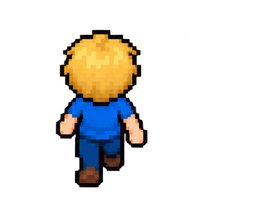
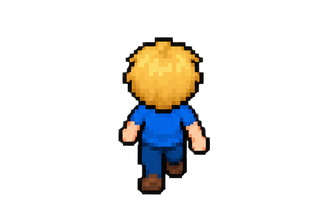
fix: Lauf-Frames am Alpha-Schwerpunkt ausrichten (Körper bleibt stehen, nur Beine laufen -> kein Wackeln bei hoch/runter)

Changed region(s): [[0.1805, 0.12, 0.6617, 0.99]]

diff --git a/tools/process_assets.py b/tools/process_assets.py
@@ -120,22 +120,33 @@ lukas = fit(cutout_white(Image.open(os.path.join(SRC, "lukas.png"))), 360)
 lukas.save(os.path.join(OUT, "pokemon", "11.png"))
 print("lukas", lukas.size)
 
-# Player-Spritesheet: 2 Spalten x 4 Reihen
+# Player-Spritesheet: 2 Spalten x 4 Reihen.
+# Jeden Frame EINZELN freischneiden und dann zentriert + fußbündig auf eine
+# einheitliche Leinwand setzen -> beim Frame-Wechsel springt die Figur nicht.
 sheet = Image.open(os.path.join(SRC, "ChatGPT Image 14. Sept. 2026, 14_04_45.png")).convert("RGBA")
 cols, rows = 2, 4
 cw, ch = sheet.width // cols, sheet.height // rows
-cells = []
+import numpy as np
+trimmed, cxs = [], []
 for r in range(rows):
     for c in range(cols):
-        cells.append(sheet.crop((c * cw, r * ch, (c + 1) * cw, (r + 1) * ch)))
-# gemeinsame Trim-Box über alle Zellen (Füße/Größe bleiben ausgerichtet)
-boxes = [cell.getbbox() for cell in cells if cell.getbbox()]
-ux0 = min(b[0] for b in boxes); uy0 = min(b[1] for b in boxes)
-ux1 = max(b[2] for b in boxes); uy1 = max(b[3] for b in boxes)
-scale = 200.0 / (uy1 - uy0)  # Zielhöhe ~200px
-for idx, cell in enumerate(cells):
+        cell = sheet.crop((c * cw, r * ch, (c + 1) * cw, (r + 1) * ch))
+        bb = cell.getbbox()
+        fr = cell.crop(bb) if bb else cell
+        a = np.array(fr.split()[3])
+        ys, xs = np.nonzero(a > 20)
+        cxs.append(float(xs.mean()))  # horizontaler Alpha-Schwerpunkt (Körpermitte)
+        trimmed.append(fr)
+maxH = max(fr.height for fr in trimmed)
+# Leinwand breit genug, damit jede am Schwerpunkt zentrierte Figur reinpasst
+half = max(max(cx, fr.width - cx) for fr, cx in zip(trimmed, cxs))
+canvasW = int(2 * half) + 8
+scale = 200.0 / maxH
+for idx, (fr, cx) in enumerate(zip(trimmed, cxs)):
     r, c = idx // cols, idx % cols
-    fr = cell.crop((ux0, uy0, ux1, uy1))
-    fr = fr.resize((int(fr.width * scale), int(fr.height * scale)), Image.LANCZOS)
-    fr.save(os.path.join(OUT, "player", f"{r}_{c}.png"))
-print("player frames", cols * rows, "size", (int((ux1-ux0)*scale), int((uy1-uy0)*scale)))
+    canvas = Image.new("RGBA", (canvasW, maxH), (0, 0, 0, 0))
+    px = int(round(canvasW / 2 - cx))       # Körpermitte -> Leinwandmitte
+    canvas.paste(fr, (px, maxH - fr.height), fr)  # Füße unten bündig
+    canvas = canvas.resize((int(canvasW * scale), 200), Image.LANCZOS)
+    canvas.save(os.path.join(OUT, "player", f"{r}_{c}.png"))
+print("player frames", cols * rows, "canvas", (int(canvasW * scale), 200))
